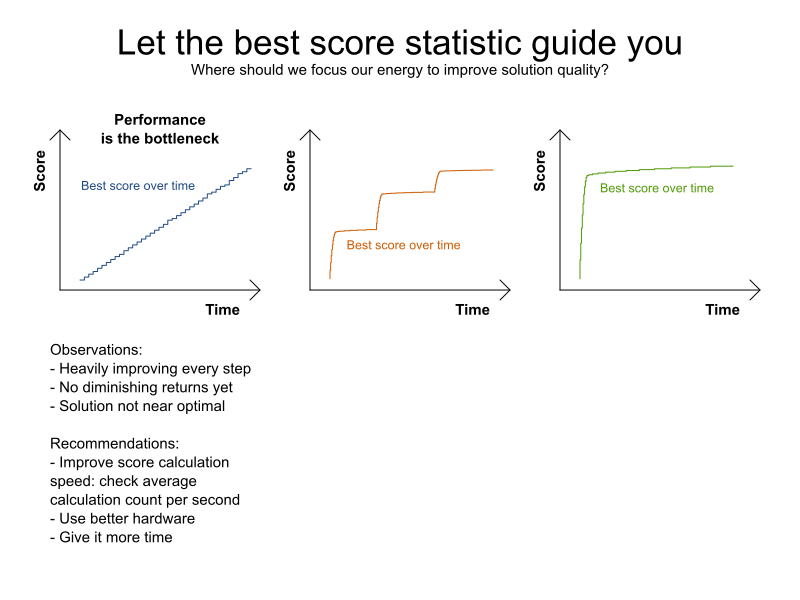
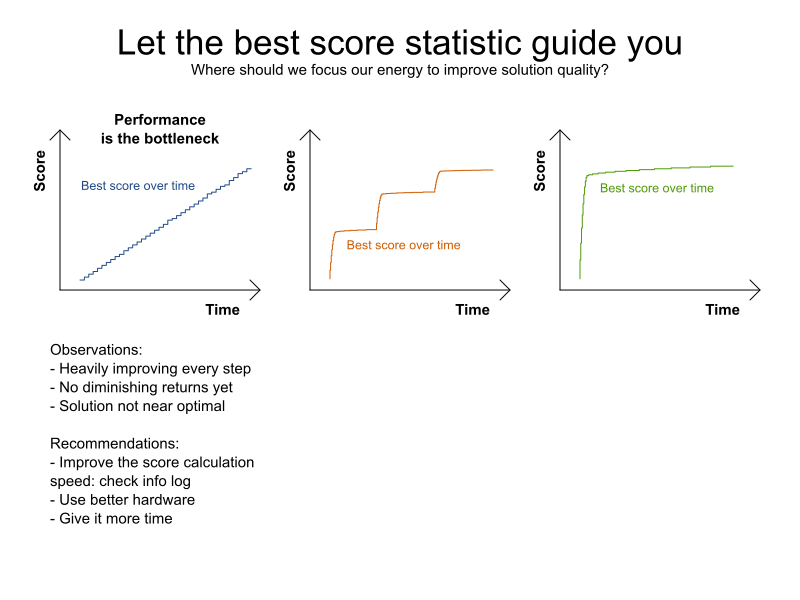
PLANNER-578 BZ-1335084 Output score calculation speed at end of phases too (and rename name it from average calculate count)

Changed region(s): [[0.0625, 0.75, 0.3125, 0.9]]

diff --git a/learn/slides/optaplanner-presentation/training.html b/learn/slides/optaplanner-presentation/training.html
@@ -1585,19 +1585,18 @@ end</code></pre>
             </ul>
         </section>
         <section>
-            <h3>ACC</h3>
+            <h3>Score calculation speed</h3>
             <ul>
-                <li>Average calculation count per second</li>
                 <li>How many inner iterations per second?</li>
                 <li>&lt; 1000 ⇒ Too slow!</li>
                 <li>&gt; 10000 ⇒ OK</li>
             </ul>
         </section>
         <section>
-            <h3>Lab: ACC</h3>
+            <h3>Lab: Score calculation speed</h3>
             <ul>
                 <li>Comment out score rules in a <code>*.drl</code> file</li>
-                <li>How does the ACC change?</li>
+                <li>How does the speed change?</li>
                 <li>Which score rule is slowest? Is there a bottleneck?</li>
             </ul>
         </section>
